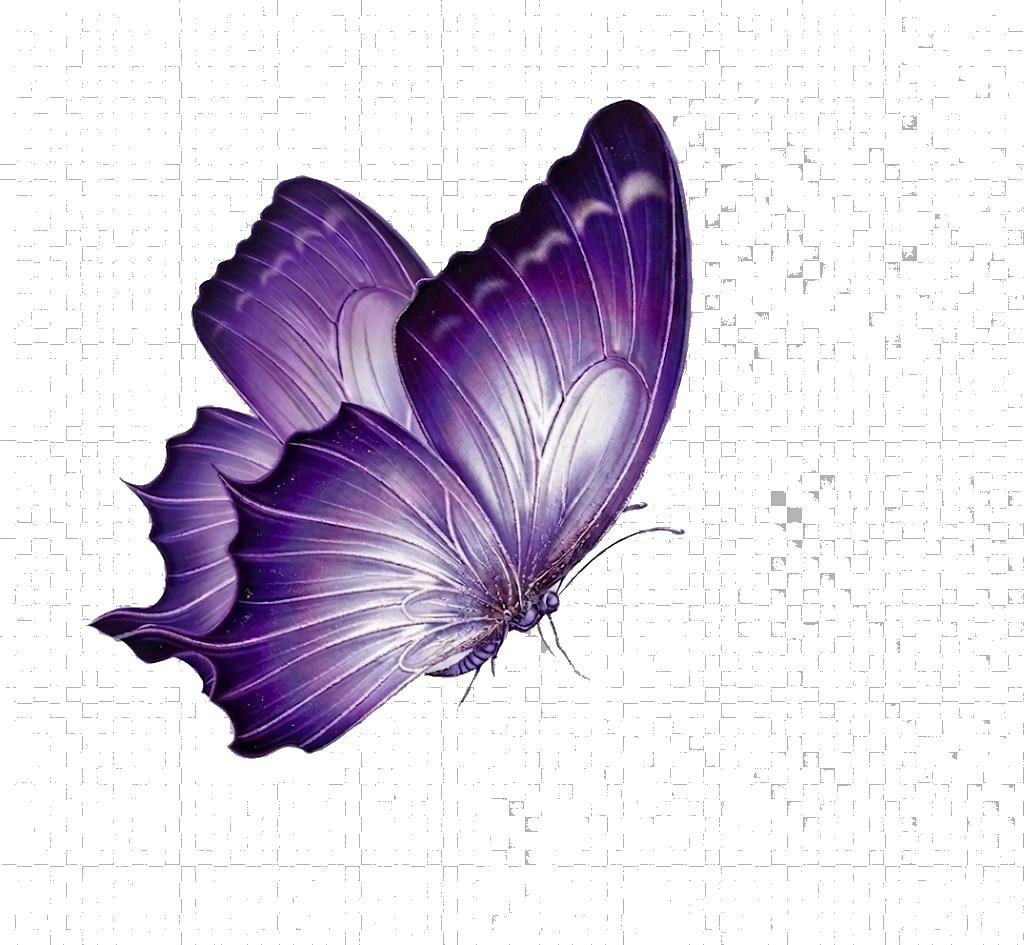
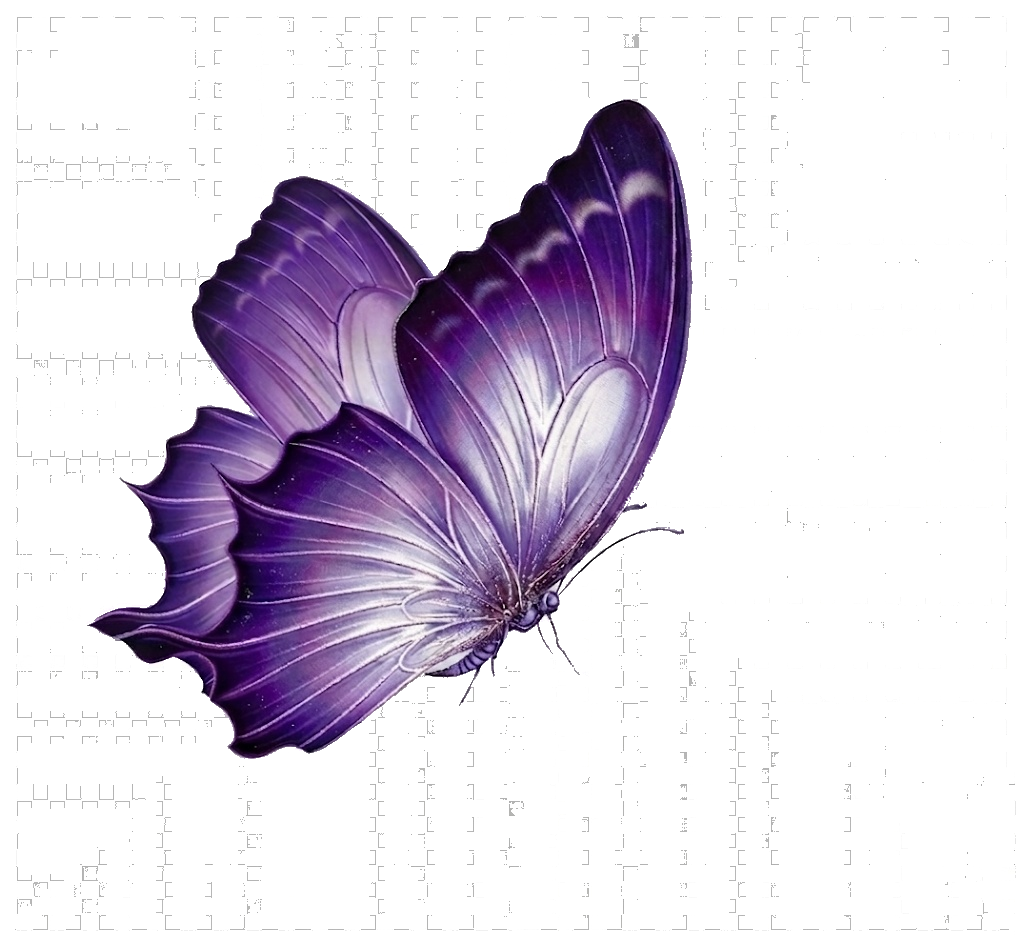
Use ButterFly1.png with flood-fill background removal
Replaced baked-in checkerboard using edge-seeded flood fill in Pillow
(tolerance 55, all four edges seeded). Background fully transparent.
Switched from inline SVG back to <img> with butterflyFloat and
wingShimmer CSS animations.

diff --git a/index.html b/index.html
@@ -84,118 +84,12 @@
       <div class="hero__visual">
         <div class="hero__glow"></div>
 
-        <svg class="butterfly-svg" width="400" viewBox="0 0 400 360" fill="none" xmlns="http://www.w3.org/2000/svg" aria-hidden="true">
-          <defs>
-            <linearGradient id="lWingU" x1="0%" y1="0%" x2="100%" y2="100%">
-              <stop offset="0%"   stop-color="#d4c5f0" stop-opacity="0.95"/>
-              <stop offset="35%"  stop-color="#9b6cd4" stop-opacity="0.9"/>
-              <stop offset="70%"  stop-color="#5c2d91" stop-opacity="0.85"/>
-              <stop offset="100%" stop-color="#2d1054" stop-opacity="0.8"/>
-            </linearGradient>
-            <linearGradient id="rWingU" x1="100%" y1="0%" x2="0%" y2="100%">
-              <stop offset="0%"   stop-color="#d4c5f0" stop-opacity="0.95"/>
-              <stop offset="35%"  stop-color="#9b6cd4" stop-opacity="0.9"/>
-              <stop offset="70%"  stop-color="#5c2d91" stop-opacity="0.85"/>
-              <stop offset="100%" stop-color="#2d1054" stop-opacity="0.8"/>
-            </linearGradient>
-            <linearGradient id="lWingL" x1="0%" y1="0%" x2="100%" y2="100%">
-              <stop offset="0%"   stop-color="#b8a9d4" stop-opacity="0.9"/>
-              <stop offset="50%"  stop-color="#7a4db8" stop-opacity="0.85"/>
-              <stop offset="100%" stop-color="#3d1f6e" stop-opacity="0.8"/>
-            </linearGradient>
-            <linearGradient id="rWingL" x1="100%" y1="0%" x2="0%" y2="100%">
-              <stop offset="0%"   stop-color="#b8a9d4" stop-opacity="0.9"/>
-              <stop offset="50%"  stop-color="#7a4db8" stop-opacity="0.85"/>
-              <stop offset="100%" stop-color="#3d1f6e" stop-opacity="0.8"/>
-            </linearGradient>
-            <radialGradient id="iridSpot" cx="50%" cy="50%" r="50%">
-              <stop offset="0%"   stop-color="#f0eaf8" stop-opacity="0.85"/>
-              <stop offset="45%"  stop-color="#c9a84c" stop-opacity="0.35"/>
-              <stop offset="100%" stop-color="#b8a9d4" stop-opacity="0"/>
-            </radialGradient>
-            <linearGradient id="bodyGrad" x1="0%" y1="0%" x2="100%" y2="0%">
-              <stop offset="0%"   stop-color="#4a2880"/>
-              <stop offset="50%"  stop-color="#c8b8e8"/>
-              <stop offset="100%" stop-color="#4a2880"/>
-            </linearGradient>
-          </defs>
-
-          <!-- LEFT UPPER WING -->
-          <path d="M200 168
-            C194 156, 172 128, 140 102
-            C108 76, 62 56, 34 62
-            C10 68, 2 96, 14 124
-            C28 154, 70 166, 108 172
-            C144 177, 180 172, 200 168Z"
-            fill="url(#lWingU)" stroke="rgba(184,169,212,0.3)" stroke-width="0.8"/>
-          <path d="M200 168 C165 150, 120 126, 80 106" stroke="rgba(240,234,248,0.22)" stroke-width="1"   fill="none"/>
-          <path d="M200 168 C172 160, 145 158, 112 162" stroke="rgba(240,234,248,0.18)" stroke-width="0.8" fill="none"/>
-          <path d="M200 168 C182 153, 158 138, 132 118" stroke="rgba(240,234,248,0.15)" stroke-width="0.7" fill="none"/>
-          <path d="M200 168 C186 156, 168 144, 148 128" stroke="rgba(240,234,248,0.12)" stroke-width="0.6" fill="none"/>
-          <ellipse cx="108" cy="122" rx="24" ry="17" fill="url(#iridSpot)" opacity="0.65"/>
-          <ellipse cx="108" cy="122" rx="9"  ry="6.5" fill="rgba(240,234,248,0.45)"/>
-          <circle  cx="68"  cy="104" r="5.5" fill="rgba(201,168,76,0.55)"/>
-          <circle  cx="52"  cy="126" r="3.5" fill="rgba(201,168,76,0.38)"/>
-
-          <!-- RIGHT UPPER WING -->
-          <path d="M200 168
-            C206 156, 228 128, 260 102
-            C292 76, 338 56, 366 62
-            C390 68, 398 96, 386 124
-            C372 154, 330 166, 292 172
-            C256 177, 220 172, 200 168Z"
-            fill="url(#rWingU)" stroke="rgba(184,169,212,0.3)" stroke-width="0.8"/>
-          <path d="M200 168 C235 150, 280 126, 320 106" stroke="rgba(240,234,248,0.22)" stroke-width="1"   fill="none"/>
-          <path d="M200 168 C228 160, 255 158, 288 162" stroke="rgba(240,234,248,0.18)" stroke-width="0.8" fill="none"/>
-          <path d="M200 168 C218 153, 242 138, 268 118" stroke="rgba(240,234,248,0.15)" stroke-width="0.7" fill="none"/>
-          <path d="M200 168 C214 156, 232 144, 252 128" stroke="rgba(240,234,248,0.12)" stroke-width="0.6" fill="none"/>
-          <ellipse cx="292" cy="122" rx="24" ry="17" fill="url(#iridSpot)" opacity="0.65"/>
-          <ellipse cx="292" cy="122" rx="9"  ry="6.5" fill="rgba(240,234,248,0.45)"/>
-          <circle  cx="332" cy="104" r="5.5" fill="rgba(201,168,76,0.55)"/>
-          <circle  cx="348" cy="126" r="3.5" fill="rgba(201,168,76,0.38)"/>
-
-          <!-- LEFT LOWER WING -->
-          <path d="M200 178
-            C190 190, 166 208, 132 224
-            C96 242, 56 248, 34 236
-            C14 224, 18 200, 42 186
-            C68 171, 112 170, 155 173
-            C177 175, 194 176, 200 178Z"
-            fill="url(#lWingL)" opacity="0.92" stroke="rgba(184,169,212,0.2)" stroke-width="0.8"/>
-          <path d="M200 178 C172 194, 138 208, 106 218" stroke="rgba(240,234,248,0.18)" stroke-width="0.8" fill="none"/>
-          <path d="M200 178 C180 196, 158 210, 136 222" stroke="rgba(240,234,248,0.12)" stroke-width="0.6" fill="none"/>
-          <ellipse cx="108" cy="212" rx="14" ry="9" fill="rgba(201,168,76,0.28)"/>
-
-          <!-- RIGHT LOWER WING -->
-          <path d="M200 178
-            C210 190, 234 208, 268 224
-            C304 242, 344 248, 366 236
-            C386 224, 382 200, 358 186
-            C332 171, 288 170, 245 173
-            C223 175, 206 176, 200 178Z"
-            fill="url(#rWingL)" opacity="0.92" stroke="rgba(184,169,212,0.2)" stroke-width="0.8"/>
-          <path d="M200 178 C228 194, 262 208, 294 218" stroke="rgba(240,234,248,0.18)" stroke-width="0.8" fill="none"/>
-          <path d="M200 178 C220 196, 242 210, 264 222" stroke="rgba(240,234,248,0.12)" stroke-width="0.6" fill="none"/>
-          <ellipse cx="292" cy="212" rx="14" ry="9" fill="rgba(201,168,76,0.28)"/>
-
-          <!-- BODY -->
-          <ellipse cx="200" cy="183" rx="4.5" ry="32" fill="url(#bodyGrad)" opacity="0.95"/>
-          <ellipse cx="200" cy="174" rx="6.5" ry="14" fill="#9d8fba" opacity="0.82"/>
-          <!-- Head -->
-          <circle cx="200" cy="150" r="8.5" fill="#b8a9d4" opacity="0.92"/>
-          <circle cx="196" cy="148" r="2.2" fill="#1a1128"/>
-          <circle cx="204" cy="148" r="2.2" fill="#1a1128"/>
-          <circle cx="196.8" cy="147.2" r="0.75" fill="rgba(240,234,248,0.9)"/>
-          <circle cx="204.8" cy="147.2" r="0.75" fill="rgba(240,234,248,0.9)"/>
-
-          <!-- ANTENNAE -->
-          <path d="M197 143 C190 130, 176 112, 164 98"  stroke="#9d8fba" stroke-width="1.5" fill="none" stroke-linecap="round"/>
-          <circle cx="163" cy="96" r="4.5" fill="#c9a84c" opacity="0.95"/>
-          <circle cx="163" cy="96" r="2"   fill="#f0eaf8" opacity="0.85"/>
-          <path d="M203 143 C210 130, 224 112, 236 98"  stroke="#9d8fba" stroke-width="1.5" fill="none" stroke-linecap="round"/>
-          <circle cx="237" cy="96" r="4.5" fill="#c9a84c" opacity="0.95"/>
-          <circle cx="237" cy="96" r="2"   fill="#f0eaf8" opacity="0.85"/>
-        </svg>
+        <img
+          src="images/ButterFly1.png"
+          alt=""
+          class="butterfly-img"
+          aria-hidden="true"
+        >
 
       </div>
     </div>

diff --git a/css/styles.css b/css/styles.css
@@ -397,12 +397,15 @@ p {
 }
 
 /* ============================================================
-   Butterfly SVG
+   Butterfly Image
    ============================================================ */
-.butterfly-svg {
+.butterfly-img {
   width: 400px;
   max-width: 100%;
-  overflow: visible;
+  display: block;
+  background: transparent;
+  border: none;
+  box-shadow: none;
   animation:
     butterflyFloat 4s ease-in-out infinite alternate,
     wingShimmer 2s ease-in-out infinite alternate;
@@ -414,12 +417,12 @@ p {
 }
 
 @keyframes wingShimmer {
-  0%   { opacity: 0.85; }
-  100% { opacity: 1.0; }
+  0%   { opacity: 0.85; filter: drop-shadow(0 0 18px rgba(184,169,212,0.3)); }
+  100% { opacity: 1.0;  filter: drop-shadow(0 0 36px rgba(184,169,212,0.6)); }
 }
 
 @media (max-width: 768px) {
-  .butterfly-svg { width: 260px; }
+  .butterfly-img { width: 260px; }
 }
 
 /* ============================================================